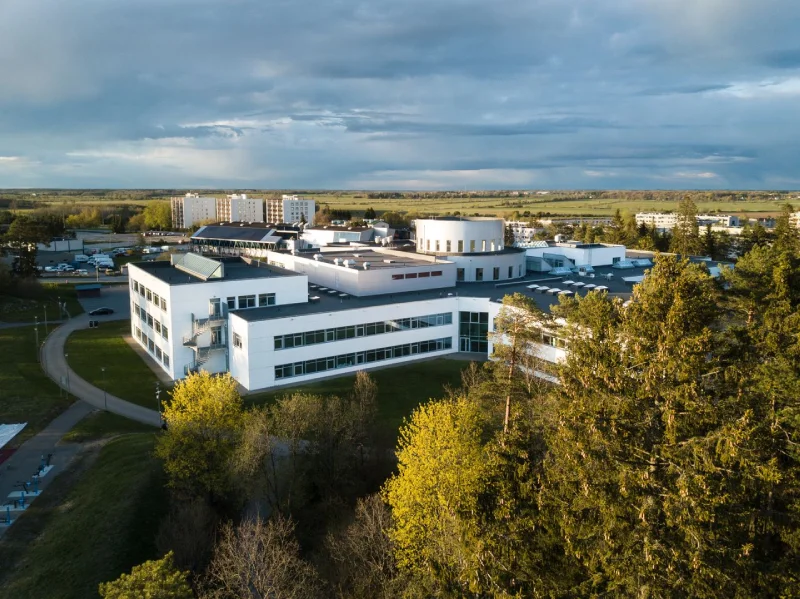
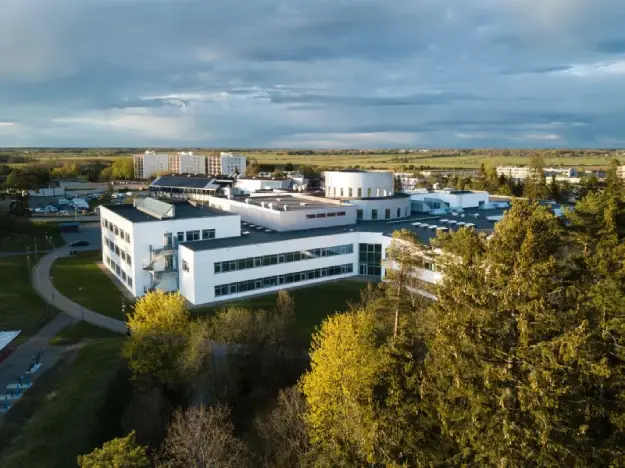
Uppdaterat README, Scss, Footer, Home- och CourseCompontent.

diff --git a/src/app/pages/home/home.html b/src/app/pages/home/home.html
@@ -1,7 +1,7 @@
 <div class="hero">
     <section>
         <h2>Bygg din framtid hos oss</h2>
-        <p>UNIT har ett brett utbud av digitala kurser inom TypeScript och systemdesign till humaniora, språk och
+        <p>UNIT har ett brett utbud av digitala kurser med allt från TypeScript och systemdesign till humaniora, språk och
             företagsekonomi. Vi ger dig verktygen och kunskapen för att växa, utvecklas och lyckas i karriären.</p>
 
         <a routerLink="/courses"><span class="material-symbols-outlined">
@@ -79,5 +79,5 @@
             att ta nästa steg hos oss.
         </p>
     </section>
-    <img [src]="'/university.webp'" class="about-img" alt="Drönarbild på UNIT:s campus" width="800" height="599" />
+    <img [src]="'/university.webp'" class="about-img" alt="Drönarbild på UNIT:s campus" width="625" height="468" />
 </div>

diff --git a/src/app/partials/main-footer/main-footer.html b/src/app/partials/main-footer/main-footer.html
@@ -3,11 +3,11 @@
         <h3>Kontakt</h3>
 
         <address>
-            <p>Typescriptvägen 7</p>
+            <p>TypeScriptvägen 7</p>
             <p>12345 TypeStad</p>
         </address>
 
-        <p><strong>E-post:</strong> info@unit.se</p>
+        <p><strong>E-post:</strong> info@unit.ts</p>
         <p><strong>Telefon:</strong> 0707-777 UNIT</p>
     </div>
 
@@ -17,8 +17,6 @@
         </a>
 
     </div>
-
-
 
     <div class="social-container">
         <h4>Följ oss</h4>

diff --git a/src/app/pages/courses/courses.html b/src/app/pages/courses/courses.html
@@ -22,7 +22,7 @@
             </label>
 
             <!-- Filtrering på ämnen-->
-            <select [(ngModel)]="selectedSubject" (ngModelChange)="resetPagination()">
+            <select [(ngModel)]="selectedSubject" (ngModelChange)="resetPagination()" aria-label="Filtrera på ämne">
                 <option value="">Alla ämnen</option>
                 @for(subject of allSubjects(); track subject) {
                 <option [value]="subject">{{subject}}</option>

diff --git a/src/app/app.scss b/src/app/app.scss
@@ -7,7 +7,7 @@ header {
     background-color: $background-darker;
     width: 100%;
     max-height: 130px;
-    padding: 1rem;
+    padding: 1.5rem;
 
 
     .header-logo {

diff --git a/README.md b/README.md
@@ -18,6 +18,7 @@ Projektet uppfyller samtliga grundläggande krav. Utöver detta har extra funkti
 * PWA.
 
 ## Url till webbplatsen
+https://rb-project-unit.netlify.app/
 
 ## Teknik
 * Ramverk: Angular och Angular Material
